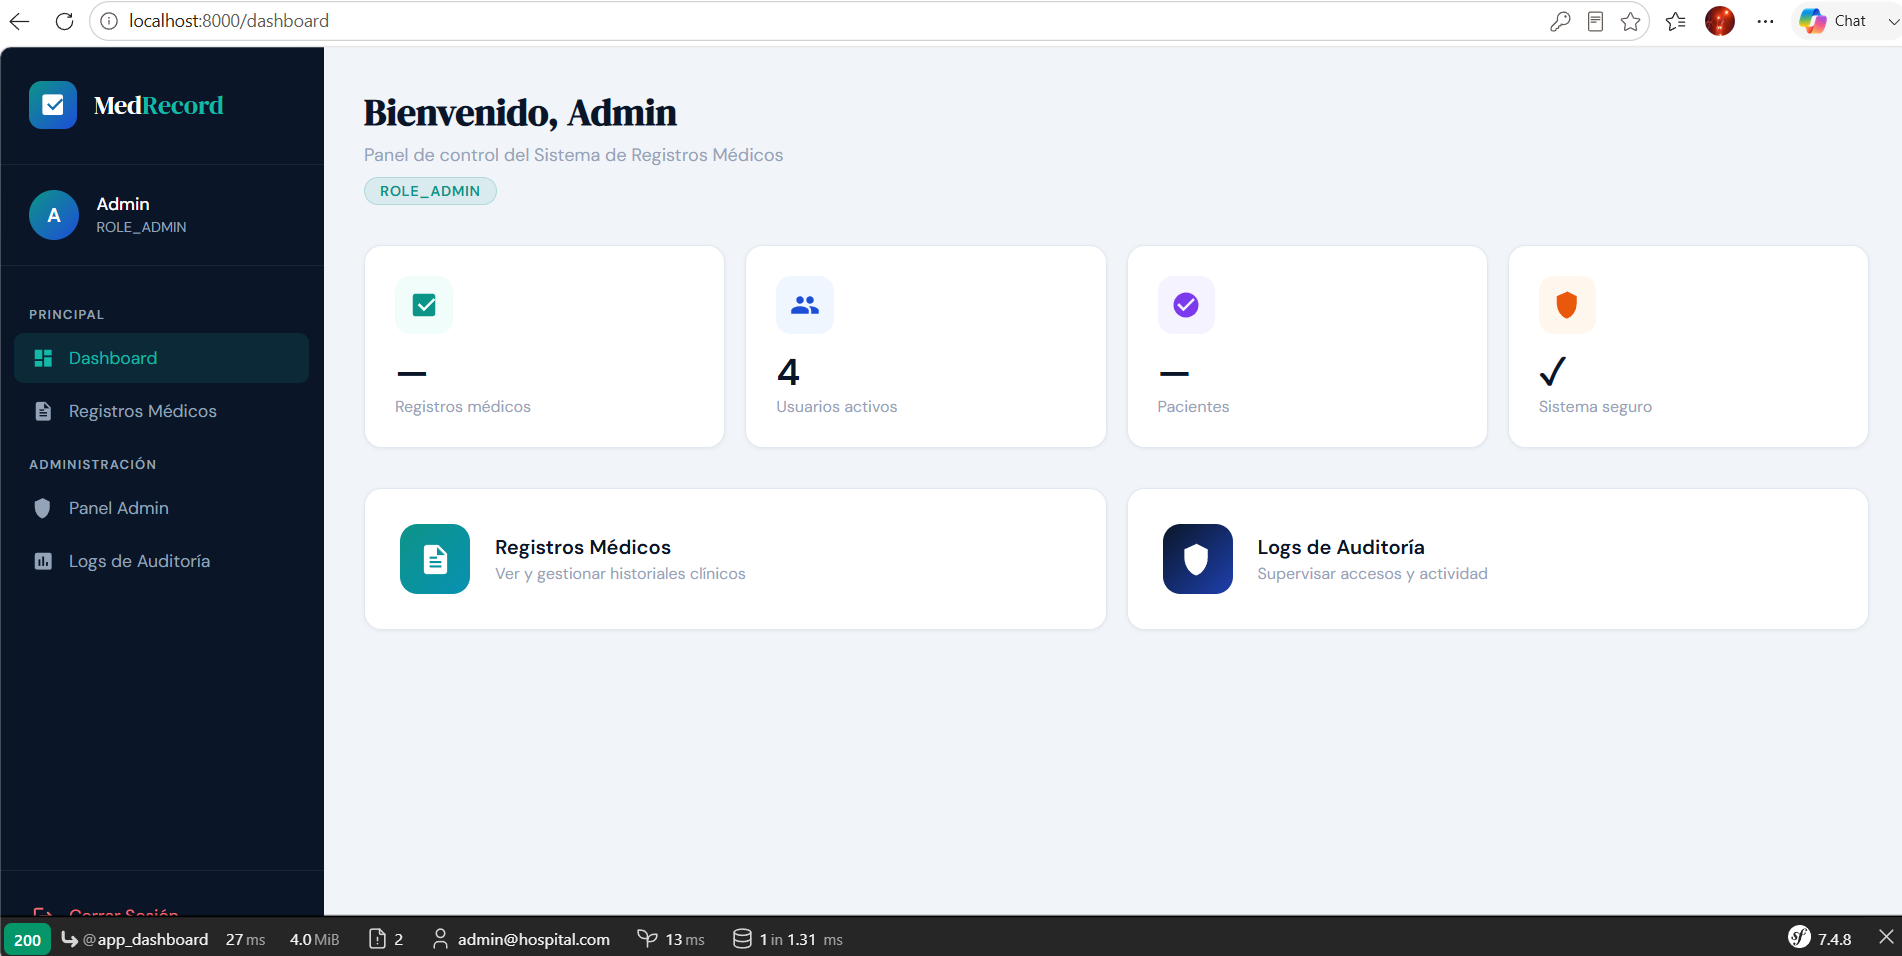
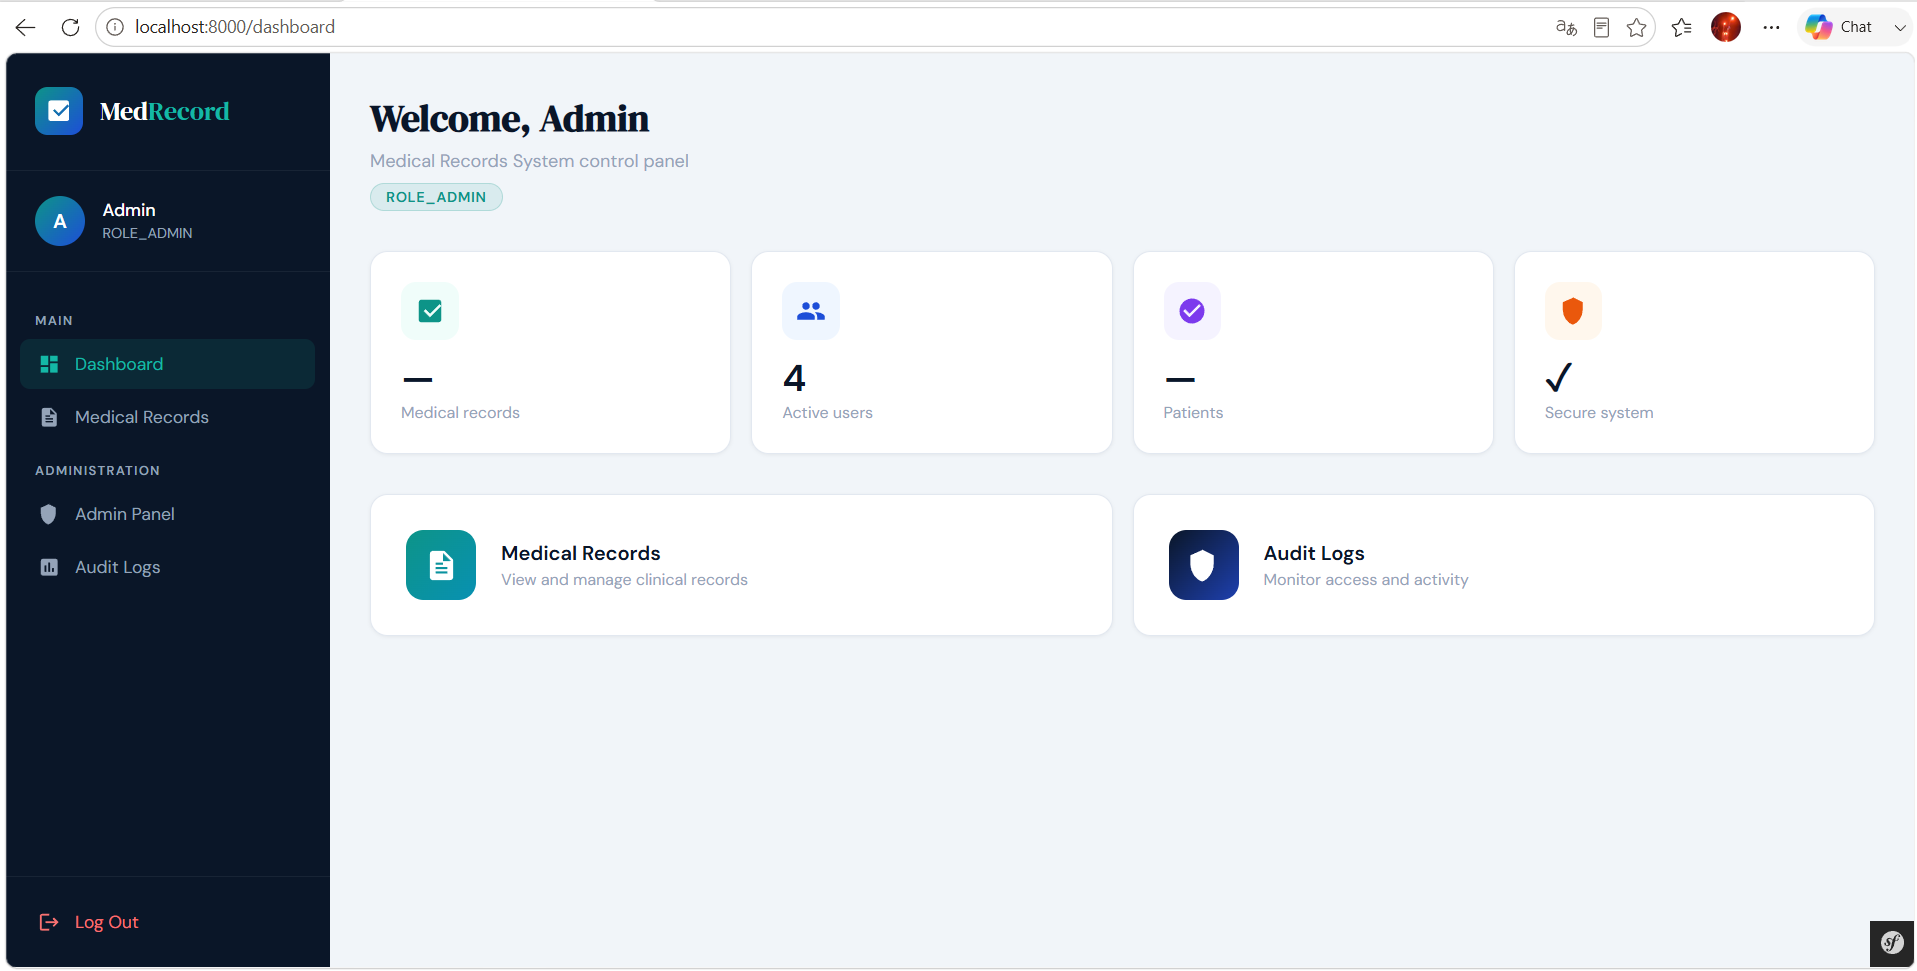
i18n: translate login, dashboard and audit log screens to English

diff --git a/translate.py b/translate.py
@@ -1,0 +1,103 @@
+#!/usr/bin/env python3
+# -*- coding: utf-8 -*-
+"""Translate the Spanish UI text on the login, dashboard and audit-log pages to English.
+Only touches literal text strings; CSS, Twig logic and routes are untouched."""
+
+replacements_by_file = {
+    "templates/login/index.html.twig": [
+        ('<html lang="es">', '<html lang="en">'),
+        ("<title>MedRecord — Acceso Seguro</title>", "<title>MedRecord — Secure Access</title>"),
+        ("<p class=\"brand-tagline\">Sistema Hospitalario de Gestión Segura</p>",
+         "<p class=\"brand-tagline\">Secure Hospital Management System</p>"),
+        ("<h4>Control de Acceso por Roles</h4><p>Médicos, enfermeros, recepción y admin</p>",
+         "<h4>Role-Based Access Control</h4><p>Doctors, nurses, reception and admin</p>"),
+        ("<h4>Auditoría Completa</h4><p>Registro de todos los accesos</p>",
+         "<h4>Full Audit Trail</h4><p>Every access is logged</p>"),
+        ("<h4>JWT y Cifrado</h4><p>API REST segura con tokens</p>",
+         "<h4>JWT &amp; Encryption</h4><p>Secure REST API with tokens</p>"),
+        ("<h2>Bienvenido</h2>", "<h2>Welcome</h2>"),
+        ("<p>Accede con tus credenciales hospitalarias</p>", "<p>Sign in with your hospital credentials</p>"),
+        ("<label>Correo electrónico</label>", "<label>Email</label>"),
+        ("<label>Contraseña</label>", "<label>Password</label>"),
+        ('placeholder="usuario@hospital.com"', 'placeholder="user@hospital.com"'),
+        ('<button type="submit" class="btn-login">Iniciar Sesión</button>',
+         '<button type="submit" class="btn-login">Sign In</button>'),
+        ('<div class="security-badge">🔒 Conexión cifrada · RGPD compliant</div>',
+         '<div class="security-badge">🔒 Encrypted connection · GDPR compliant</div>'),
+        ("<strong>Usuarios de prueba:</strong>", "<strong>Test users:</strong>"),
+    ],
+    "templates/login/dashboard.html.twig": [
+        ('<html lang="es">', '<html lang="en">'),
+        ('<div class="nav-label">Principal</div>', '<div class="nav-label">Main</div>'),
+        ('<div class="nav-label">Administración</div>', '<div class="nav-label">Administration</div>'),
+        ("<p>Panel de control del Sistema de Registros Médicos</p>",
+         "<p>Medical Records System control panel</p>"),
+        ("Registros Médicos", "Medical Records"),
+        ("Panel Admin", "Admin Panel"),
+        ("Logs de Auditoría", "Audit Logs"),
+        ("Cerrar Sesión", "Log Out"),
+        ("<h1>Bienvenido, {{ app.user.name }}</h1>", "<h1>Welcome, {{ app.user.name }}</h1>"),
+        ('<div class="stat-label">Registros médicos</div>', '<div class="stat-label">Medical records</div>'),
+        ('<div class="stat-label">Usuarios activos</div>', '<div class="stat-label">Active users</div>'),
+        ('<div class="stat-label">Pacientes</div>', '<div class="stat-label">Patients</div>'),
+        ('<div class="stat-label">Sistema seguro</div>', '<div class="stat-label">Secure system</div>'),
+        ("<p>Ver y gestionar historiales clínicos</p>", "<p>View and manage clinical records</p>"),
+        ("<p>Supervisar accesos y actividad</p>", "<p>Monitor access and activity</p>"),
+    ],
+    "templates/admin/logs.html.twig": [
+        ('<html lang="es">', '<html lang="en">'),
+        ("<title>MedRecord — Logs de Auditoría</title>", "<title>MedRecord — Audit Logs</title>"),
+        ("<h1>Logs de Auditoría</h1>", "<h1>Audit Logs</h1>"),
+        ('<div class="nav-label">Principal</div>', '<div class="nav-label">Main</div>'),
+        ('<div class="nav-label">Administración</div>', '<div class="nav-label">Administration</div>'),
+        ("Registros Médicos", "Medical Records"),
+        ("Panel Admin", "Admin Panel"),
+        ("Logs de Auditoría", "Audit Logs"),
+        ("Cerrar Sesión", "Log Out"),
+        ("<p>Registro completo de accesos y actividad del sistema</p>",
+         "<p>Full log of system access and activity</p>"),
+        ("<div class=\"stat-label\">Total accesos</div>", "<div class=\"stat-label\">Total access events</div>"),
+        ("<div class=\"stat-label\">Fallos últimas 24h</div>", "<div class=\"stat-label\">Failures last 24h</div>"),
+        ("<div class=\"stat-label\">Accesos sospechosos 24h</div>",
+         "<div class=\"stat-label\">Suspicious access 24h</div>"),
+        ("<label>Acción:</label>", "<label>Action:</label>"),
+        (">Todas</option>", ">All</option>"),
+        (">Login exitoso</option>", ">Successful login</option>"),
+        (">Login fallido</option>", ">Failed login</option>"),
+        (">Acceso denegado</option>", ">Access denied</option>"),
+        ("<label>Resultado:</label>", "<label>Result:</label>"),
+        (">Todos</option>", ">All</option>"),
+        (">Exitoso</option>", ">Successful</option>"),
+        (">Fallido</option>", ">Failed</option>"),
+        ("<label>Usuario:</label>", "<label>User:</label>"),
+        ("<label>Desde:</label>", "<label>From:</label>"),
+        ("<label>Hasta:</label>", "<label>To:</label>"),
+        ('<button type="submit" class="btn-filter">Filtrar</button>',
+         '<button type="submit" class="btn-filter">Filter</button>'),
+        ('class="btn-clear">Limpiar</a>', 'class="btn-clear">Clear</a>'),
+        ("<h3>Últimos 100 accesos</h3>", "<h3>Last 100 access events</h3>"),
+        ("{{ logs|length }} registros", "{{ logs|length }} records"),
+        ("<th>Fecha</th>", "<th>Date</th>"),
+        ("<th>Usuario</th>", "<th>User</th>"),
+        ("<th>Acción</th>", "<th>Action</th>"),
+        ("<th>Recurso</th>", "<th>Resource</th>"),
+        ("<th>Resultado</th>", "<th>Result</th>"),
+        ("<th>Detalles</th>", "<th>Details</th>"),
+        (">Exitoso</span>", ">Successful</span>"),
+        (">Fallido</span>", ">Failed</span>"),
+        ("Accesos sospechosos últimas 24h — {{ suspicious|length }} detectados",
+         "Suspicious access last 24h — {{ suspicious|length }} detected"),
+    ],
+}
+
+for path, pairs in replacements_by_file.items():
+    with open(path, "r", encoding="utf-8") as f:
+        content = f.read()
+    for old, new in pairs:
+        count = content.count(old)
+        if count == 0:
+            print(f"WARNING: not found in {path}: {old!r}")
+        content = content.replace(old, new)
+    with open(path, "w", encoding="utf-8") as f:
+        f.write(content)
+    print(f"Updated {path}")
